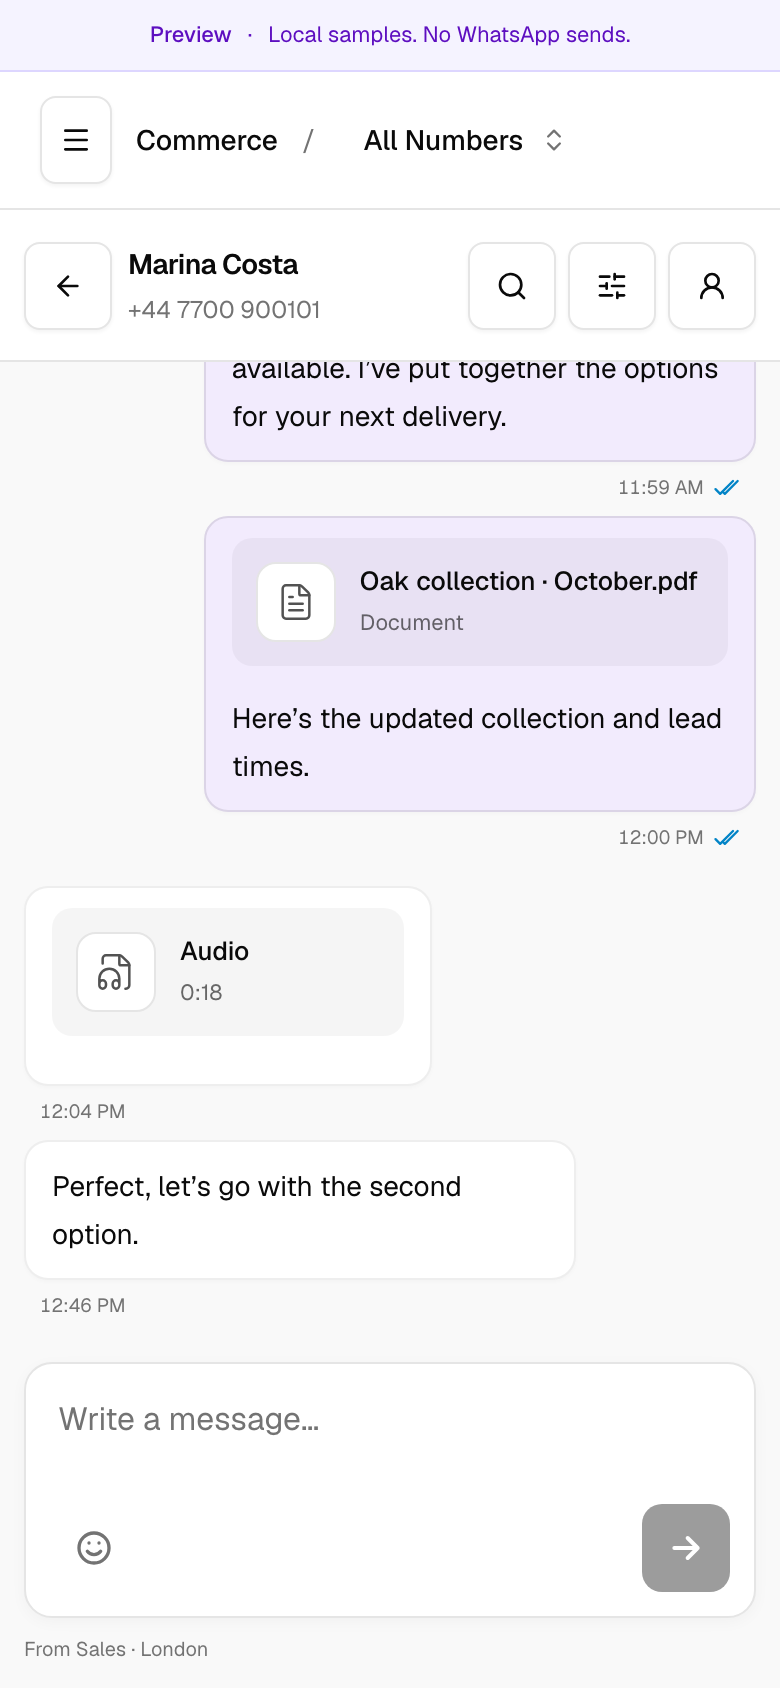
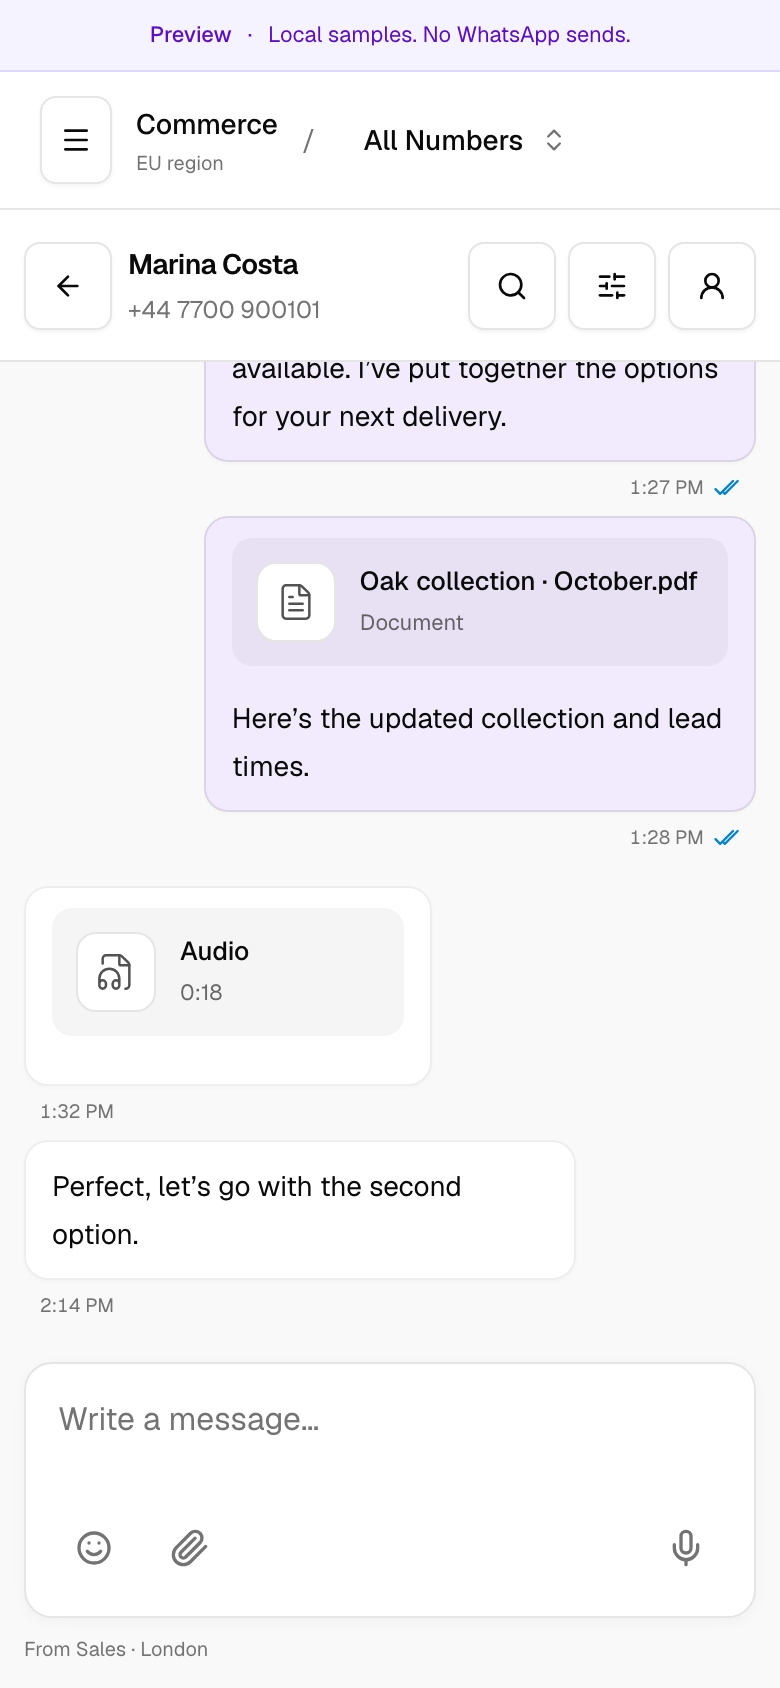
docs(chat): refresh 2x media composer screenshots

diff --git a/docs/chat-ui-evidence.md b/docs/chat-ui-evidence.md
@@ -1,8 +1,9 @@
 # Chat window UI evidence
 
 Rendered in the synthetic Console integration against this candidate SDK core.
-No regional reads, credentials, uploads or WhatsApp sends. Chromium captured
-full-length PNGs at 2x scale. Exact source revisions and viewports are recorded in
+No regional reads, credentials, remote uploads or WhatsApp sends. The media
+fixture uses a local file and Blob URL. Chromium captured full-length PNGs at
+2x scale. Exact source revisions and viewports are recorded in
 [the capture manifest](images/chat-window/manifest.json).
 
 ## Desktop
@@ -12,6 +13,16 @@ full-length PNGs at 2x scale. Exact source revisions and viewports are recorded 
 ## Mobile
 
 ![Mobile chat with fixed composer](images/chat-window/chats-mobile-2x.png)
+
+## Media choices
+
+![Photos, Videos, Audio and Documents picker](images/chat-window/chats-media-picker-desktop-2x.png)
+
+![Mobile attachment choices](images/chat-window/chats-media-picker-mobile-2x.png)
+
+## Media draft
+
+![Image preview and caption before sending](images/chat-window/chats-media-draft-desktop-2x.png)
 
 ## Failed send
 
